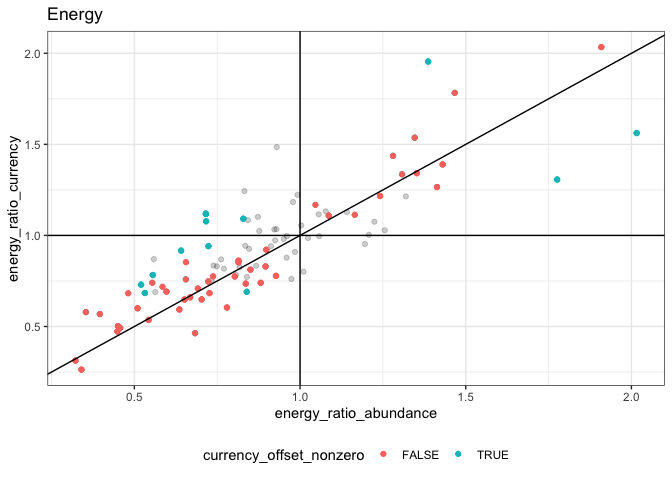
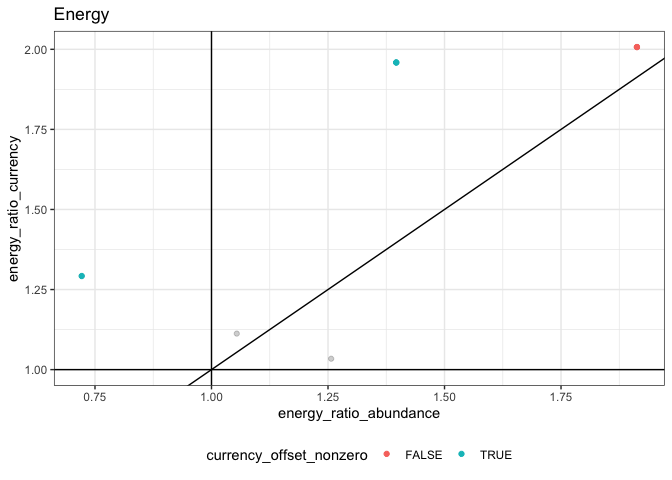
run with 100 datasets. by my calculation this should give a cache about 10gb

diff --git a/aspirational_structure/results/results_reports/model_tallies.md b/aspirational_structure/results/results_reports/model_tallies.md
@@ -13,18 +13,18 @@ all_winners %>%
 
 | simtype      | currency | model             | count |
 | :----------- | :------- | :---------------- | ----: |
-| actual       | biomass  | tb\_brm\_full     |    31 |
-| actual       | biomass  | tb\_brm\_nosource |    31 |
-| actual       | biomass  | tb\_brm\_notime   |    38 |
-| actual       | energy   | te\_brm\_full     |    17 |
-| actual       | energy   | te\_brm\_nosource |    45 |
-| actual       | energy   | te\_brm\_notime   |    38 |
-| nochange     | biomass  | tb\_brm\_notime   |   100 |
-| nochange     | energy   | te\_brm\_notime   |   100 |
-| nosizechange | biomass  | tb\_brm\_nosource |    58 |
-| nosizechange | biomass  | tb\_brm\_notime   |    42 |
-| nosizechange | energy   | te\_brm\_nosource |    60 |
-| nosizechange | energy   | te\_brm\_notime   |    40 |
+| actual       | biomass  | tb\_brm\_full     |     3 |
+| actual       | biomass  | tb\_brm\_nosource |     1 |
+| actual       | biomass  | tb\_brm\_notime   |     1 |
+| actual       | energy   | te\_brm\_full     |     2 |
+| actual       | energy   | te\_brm\_nosource |     1 |
+| actual       | energy   | te\_brm\_notime   |     2 |
+| nochange     | biomass  | tb\_brm\_notime   |     5 |
+| nochange     | energy   | te\_brm\_notime   |     5 |
+| nosizechange | biomass  | tb\_brm\_nosource |     4 |
+| nosizechange | biomass  | tb\_brm\_notime   |     1 |
+| nosizechange | energy   | te\_brm\_nosource |     4 |
+| nosizechange | energy   | te\_brm\_notime   |     1 |
 
 </div>
 
@@ -33,12 +33,12 @@ actual_qis <- all_qis %>%
   filter(simtype == "actual") 
 actual_qis_95 <- filter(actual_qis, .width == .95)
 
-ggplot(actual_qis, aes(b_timeperiodend, matssname)) + geom_pointinterval(aes(xmin = b_timeperiodend.lower, xmax = b_timeperiodend.upper, width = .width)) + geom_vline(xintercept = 0) + facet_wrap(vars(currency), scales = "free")
+ggplot(actual_qis, aes(timeperiodend, matssname)) + geom_pointinterval(aes(xmin = timeperiodend.lower, xmax = timeperiodend.upper, width = .width)) + geom_vline(xintercept = 0) + facet_wrap(vars(currency), scales = "free")
 ```
 
-    ## Warning: Removed 76 rows containing missing values (geom_segment).
-    
-    ## Warning: Removed 76 rows containing missing values (geom_segment).
+    ## Warning: Removed 2 rows containing missing values (geom_segment).
+
+    ## Warning: Removed 4 rows containing missing values (geom_segment).
 
 ![](model_tallies_files/figure-gfm/unnamed-chunk-2-1.png)<!-- -->
 
@@ -47,15 +47,15 @@ Of models of actual,
 ``` r
 actual_qis_95 %>%
   group_by(currency) %>%
-  summarize(percent_with_slope = mean(!is.na(b_timeperiodend)))
+  summarize(percent_with_slope = mean(!is.na(timeperiodend)))
 ```
 
 <div class="kable-table">
 
 | currency | percent\_with\_slope |
 | :------- | -------------------: |
-| biomass  |                 0.62 |
-| energy   |                 0.62 |
+| biomass  |                  0.8 |
+| energy   |                  0.6 |
 
 </div>
 
@@ -64,17 +64,17 @@ Of models with a slope…
 ``` r
 actual_qis_95 %>%
   group_by(currency) %>%
-  summarize(percent_decreasing = mean(b_timeperiodend.upper < 0, na.rm = T),
-            percent_increasing = mean(b_timeperiodend.lower > 0, na.rm = T),
-            n_with_slope = sum(!is.na(b_timeperiodend)))
+  summarize(percent_decreasing = mean(timeperiodend.upper < 0, na.rm = T),
+            percent_increasing = mean(timeperiodend.lower > 0, na.rm = T),
+            n_with_slope = sum(!is.na(timeperiodend)))
 ```
 
 <div class="kable-table">
 
 | currency | percent\_decreasing | percent\_increasing | n\_with\_slope |
 | :------- | ------------------: | ------------------: | -------------: |
-| biomass  |           0.6290323 |           0.2258065 |             62 |
-| energy   |           0.7096774 |           0.2258065 |             62 |
+| biomass  |           0.0000000 |           0.5000000 |              4 |
+| energy   |           0.3333333 |           0.6666667 |              3 |
 
 </div>
 
@@ -87,15 +87,15 @@ Of all models, here’s the proportion with an interaction:
 ``` r
 actual_qis_95 %>%
   group_by(currency) %>%
-  summarize(percent_interaction = mean(!is.na(`b_timeperiodend:sourcecurrency`), na.rm = T))
+  summarize(percent_interaction = mean(!is.na(`timeperiodend:sourcecurrency`), na.rm = T))
 ```
 
 <div class="kable-table">
 
 | currency | percent\_interaction |
 | :------- | -------------------: |
-| biomass  |                 0.31 |
-| energy   |                 0.17 |
+| biomass  |                  0.6 |
+| energy   |                  0.4 |
 
 </div>
 
@@ -104,19 +104,29 @@ Of models with an interaction…
 ``` r
 actual_qis_95 %>%
   group_by(currency) %>%
-  summarize(percent_currency_above_abund = mean((`b_timeperiodend:sourcecurrency.lower` >0), na.rm = T),
-            percent_currency_below_abund = mean((`b_timeperiodend:sourcecurrency.upper` <0), na.rm = T),
-            n_with_interaction = sum(!is.na(`b_timeperiodend:sourcecurrency`)))
+  summarize(percent_currency_above_abund = mean((`timeperiodend:sourcecurrency.lower` >0), na.rm = T),
+            percent_currency_below_abund = mean((`timeperiodend:sourcecurrency.upper` <0), na.rm = T),
+            n_with_interaction = sum(!is.na(`timeperiodend:sourcecurrency`)))
 ```
 
 <div class="kable-table">
 
 | currency | percent\_currency\_above\_abund | percent\_currency\_below\_abund | n\_with\_interaction |
 | :------- | ------------------------------: | ------------------------------: | -------------------: |
-| biomass  |                       0.8064516 |                       0.1935484 |                   31 |
-| energy   |                       0.7058824 |                       0.2941176 |                   17 |
+| biomass  |                               1 |                               0 |                    3 |
+| energy   |                               1 |                               0 |                    2 |
 
 </div>
+
+``` r
+ggplot(actual_qis, aes(`timeperiodend:sourcecurrency`, matssname)) + geom_pointinterval(aes(xmin = `timeperiodend:sourcecurrency.lower`, xmax = `timeperiodend:sourcecurrency.upper`, width = .width)) + geom_vline(xintercept = 0) + facet_wrap(vars(currency), scales = "free")
+```
+
+    ## Warning: Removed 4 rows containing missing values (geom_segment).
+
+    ## Warning: Removed 6 rows containing missing values (geom_segment).
+
+![](model_tallies_files/figure-gfm/unnamed-chunk-6-1.png)<!-- -->
 
 ``` r
 raw_changes <- all_sims %>%
@@ -137,8 +147,8 @@ raw_changes <- all_sims %>%
 ``` r
 sig_changes <- raw_changes %>%
   left_join(actual_qis_95) %>%
-  mutate(abund_slope_nonzero = (b_timeperiodend.upper < 0 | b_timeperiodend.lower > 0) & !is.na(b_timeperiodend),
-         currency_offset_nonzero =(`b_timeperiodend:sourcecurrency.upper` < 0 | `b_timeperiodend:sourcecurrency.lower` > 0) & !is.na(`b_timeperiodend:sourcecurrency`))
+  mutate(abund_slope_nonzero = (timeperiodend.upper < 0 | timeperiodend.lower > 0) & !is.na(timeperiodend),
+         currency_offset_nonzero =(`timeperiodend:sourcecurrency.upper` < 0 | `timeperiodend:sourcecurrency.lower` > 0) & !is.na(`timeperiodend:sourcecurrency`))
 ```
 
     ## Joining, by = "matssname"
@@ -150,7 +160,7 @@ ggplot(sig_changes, aes(energy_ratio_abundance, energy_ratio_currency)) + geom_p
 ![](model_tallies_files/figure-gfm/unnamed-chunk-7-1.png)<!-- -->
 
 ``` r
-ggplot(sig_changes, aes(biomass_ratio_abundance, biomass_ratio_currency)) + geom_point(alpha = .1) + geom_point(data =filter(sig_changes, !is.na(b_timeperiodend)), aes(color = currency_offset_nonzero), alpha = 1) + geom_abline(slope= 1, intercept = 0) + geom_vline(xintercept = 1) + geom_hline(yintercept = 1) + theme(legend.position = "bottom") + ggtitle("Biomass")
+ggplot(sig_changes, aes(biomass_ratio_abundance, biomass_ratio_currency)) + geom_point(alpha = .1) + geom_point(data =filter(sig_changes, !is.na(timeperiodend)), aes(color = currency_offset_nonzero), alpha = 1) + geom_abline(slope= 1, intercept = 0) + geom_vline(xintercept = 1) + geom_hline(yintercept = 1) + theme(legend.position = "bottom") + ggtitle("Biomass")
 ```
 
 ![](model_tallies_files/figure-gfm/unnamed-chunk-7-2.png)<!-- -->
